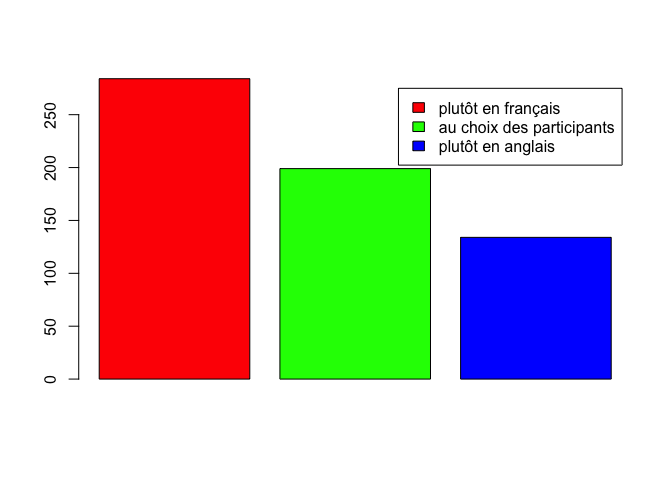
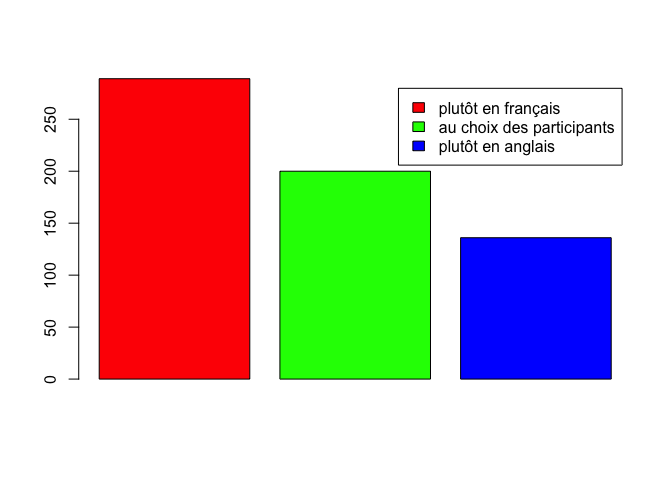
:bento: MAJ stats 10 février -> 25 mars (8 réponses supplémentaires)

diff --git a/analyse/globale.md b/analyse/globale.md
@@ -11,6 +11,7 @@ informatique de France à partir des réponses à un sondage
 qui a eu lieu entre octobre 2018 et février 2019.
 
 Ce sondage a été élaboré par le conseil des associations des la SIF, suite à des discussions sur la diversité des pratiques de publication au sein même de la discipline informatique.
+Les résultats bruts du sondage ont été rendus publics [en mai 2019 par la SIF](https://www.societe-informatique-de-france.fr/2019/05/referentiel-des-publications-en-informatique/).
 
 Le référentiel a pour but de rendre publique des pratiques de publications connues des communautés thématiques mais pas forcément de l'ensemble de la communauté informatique.
 
@@ -22,7 +23,7 @@ Les scripts ayant servi à l'analyse des réponses sont [disponibles pour inform
 
 # Profil des participants au sondage
 
-Au 10 février 2019, il y a eu 689 réponses au total dont 663 uniques après traitement des réponses pour enlever les doublons, probablement dûs à des envois répétés du même formulaire.
+Au 25 mars 2019, il y a eu 698 réponses au total dont 671 uniques après traitement des réponses pour enlever les doublons, probablement dûs à des envois répétés du même formulaire.
 
 ## Thématiques de recherche
 
@@ -32,7 +33,7 @@ Les participants devaient se positionner dans [l'une des 13 catégories de la no
 
 <tbody>
 
-<tr><td style="text-align:left;">Systèmes d'information</td><td style="text-align:right;">83</td></tr>
+<tr><td style="text-align:left;">Systèmes d'information</td><td style="text-align:right;">88</td></tr>
 
 <tr><td style="text-align:left;"><strong>Algorithmique, recherche opérationnelle</strong></td><td style="text-align:right;"><strong>166</strong></td></tr>
 
@@ -46,11 +47,11 @@ Les participants devaient se positionner dans [l'une des 13 catégories de la no
 
 <tr><td style="text-align:left;">Génie logiciel et programmation</td><td style="text-align:right;">76</td></tr>
 
-<tr><td style="text-align:left;"><strong>Intelligence Artificielle</strong></td><td style="text-align:right;"><strong>155</strong></td></tr>
+<tr><td style="text-align:left;"><strong>Intelligence Artificielle</strong></td><td style="text-align:right;"><strong>156</strong></td></tr>
 
 <tr><td style="text-align:left;">Images et géométrie, scènes, parole, signaux</td><td style="text-align:right;">92</td></tr>
 
-<tr><td style="text-align:left;"><strong>Interaction humain machine</strong></td><td style="text-align:right;"><strong>112</strong></td></tr>
+<tr><td style="text-align:left;"><strong>Interaction humain machine</strong></td><td style="text-align:right;"><strong>114</strong></td></tr>
 
 <tr><td style="text-align:left;">Architecture des machines</td><td style="text-align:right;">16</td></tr>
 
@@ -92,7 +93,7 @@ La table suivante indique pour les réponses obtenues le nombre de réponses à 
 
 <tr><td style="text-align:left;">AFIG</td><td style="text-align:right;">47</td></tr>
 
-<tr><td style="text-align:left;">AFIHM</td><td style="text-align:right;">52</td></tr>
+<tr><td style="text-align:left;">AFIHM</td><td style="text-align:right;">53</td></tr>
 
 <tr><td style="text-align:left;">AFPC</td><td style="text-align:right;">13</td></tr>
 
@@ -102,19 +103,19 @@ La table suivante indique pour les réponses obtenues le nombre de réponses à 
 
 <tr><td style="text-align:left;">ATALA</td><td style="text-align:right;">13</td></tr>
 
-<tr><td style="text-align:left;">ATIEF</td><td style="text-align:right;">26</td></tr>
+<tr><td style="text-align:left;">ATIEF</td><td style="text-align:right;">27</td></tr>
 
 <tr><td style="text-align:left;">BDA</td><td style="text-align:right;">4</td></tr>
 
 <tr><td style="text-align:left;">EGC</td><td style="text-align:right;">24</td></tr>
 
-<tr><td style="text-align:left;">GDR IG RV</td><td style="text-align:right;">61</td></tr>
+<tr><td style="text-align:left;">GDR IG RV</td><td style="text-align:right;">62</td></tr>
 
 <tr><td style="text-align:left;"><strong>GDR IM</strong></td><td style="text-align:right;"><strong>127</strong></td></tr>
 
 <tr><td style="text-align:left;">GRCE</td><td style="text-align:right;">9</td></tr>
 
-<tr><td style="text-align:left;">INFORSID</td><td style="text-align:right;">22</td></tr>
+<tr><td style="text-align:left;">INFORSID</td><td style="text-align:right;">26</td></tr>
 
 <tr><td style="text-align:left;">ROADEF</td><td style="text-align:right;">64</td></tr>
 
@@ -122,9 +123,9 @@ La table suivante indique pour les réponses obtenues le nombre de réponses à 
 
 <tr><td style="text-align:left;">SPECIF Campus</td><td style="text-align:right;">8</td></tr>
 
-<tr><td style="text-align:left;">SSFAM</td><td style="text-align:right;">17</td></tr>
+<tr><td style="text-align:left;">SSFAM</td><td style="text-align:right;">18</td></tr>
 
-<tr><td style="text-align:left;">autre</td><td style="text-align:right;">97</td></tr>
+<tr><td style="text-align:left;">autre</td><td style="text-align:right;">98</td></tr>
 
 </tbody>
 
